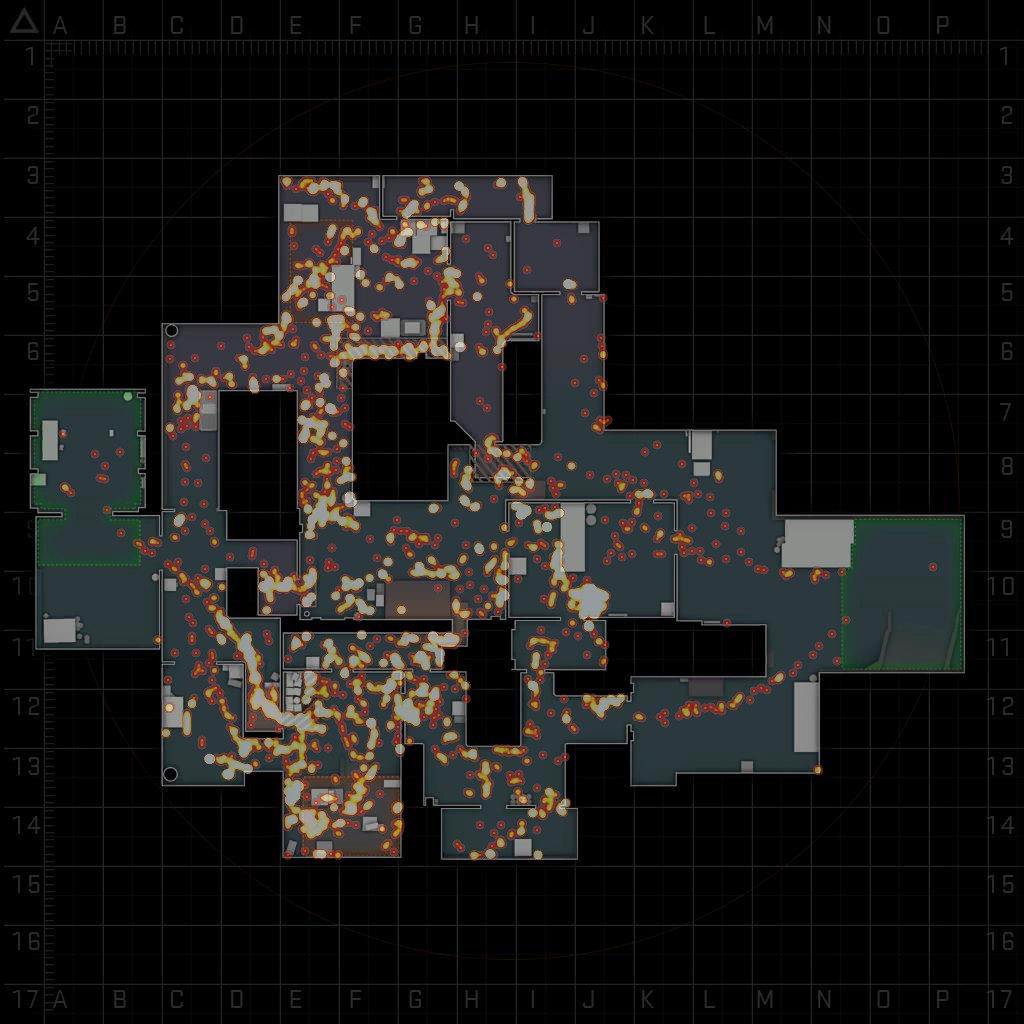
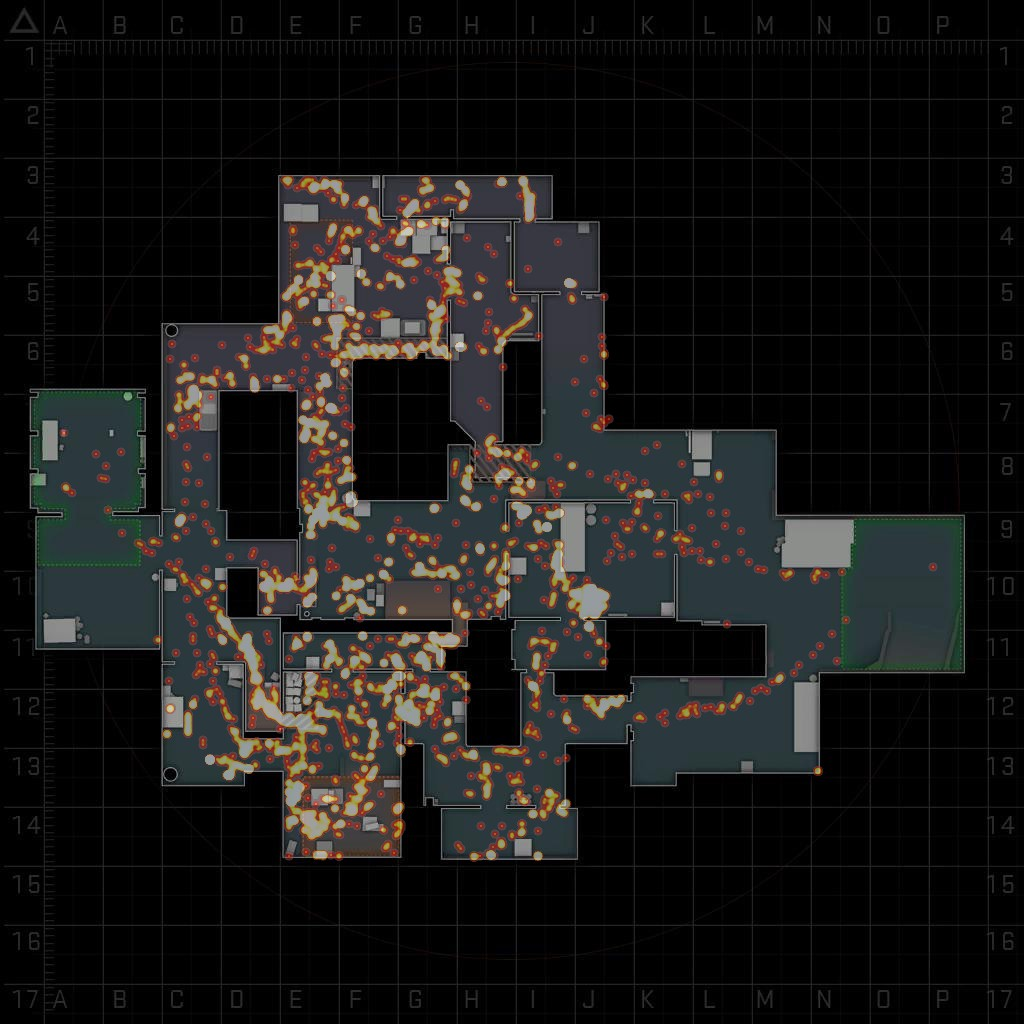
Added padding to bounding rectangle

diff --git a/examples/heatmap/heatmap.go b/examples/heatmap/heatmap.go
@@ -62,9 +62,10 @@ func main() {
 
 	// Find bounding rectangle for points to get around the normalization done by the heatmap library
 	r2Bounds := r2.RectFromPoints(points...)
+	padding := float64(dotSize) / 2.0 // Calculating padding amount to avoid shrinkage by the heatmap library
 	bounds := image.Rectangle{
-		Min: image.Point{X: int(r2Bounds.X.Lo), Y: int(r2Bounds.Y.Lo)},
-		Max: image.Point{X: int(r2Bounds.X.Hi), Y: int(r2Bounds.Y.Hi)},
+		Min: image.Point{X: int(r2Bounds.X.Lo - padding), Y: int(r2Bounds.Y.Lo - padding)},
+		Max: image.Point{X: int(r2Bounds.X.Hi + padding), Y: int(r2Bounds.Y.Hi + padding)},
 	}
 
 	// Transform r2.Points into heatmap.DataPoints
@@ -86,11 +87,11 @@ func main() {
 
 	// Create output canvas and use map overview image as base
 	img := image.NewRGBA(imgMap.Bounds())
-	draw.Draw(img, imgMap.Bounds(), imgMap, image.ZP, draw.Over)
+	draw.Draw(img, imgMap.Bounds(), imgMap, image.Point{}, draw.Over)
 
 	// Generate and draw heatmap overlay on top of the overview
 	imgHeatmap := heatmap.Heatmap(image.Rect(0, 0, bounds.Dx(), bounds.Dy()), data, dotSize, opacity, schemes.AlphaFire)
-	draw.Draw(img, bounds, imgHeatmap, image.ZP, draw.Over)
+	draw.Draw(img, bounds, imgHeatmap, image.Point{}, draw.Over)
 
 	// Write to stdout
 	err = jpeg.Encode(os.Stdout, img, &jpeg.Options{Quality: jpegQuality})
